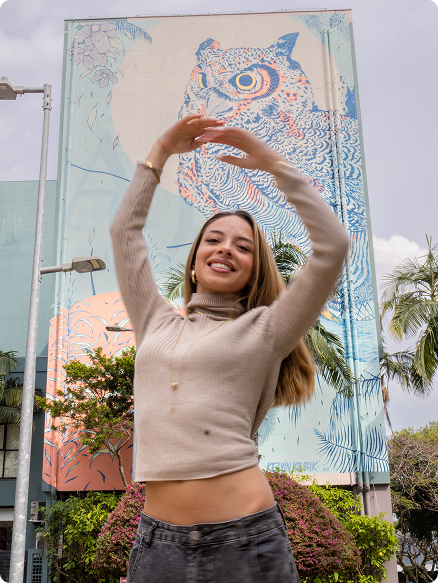
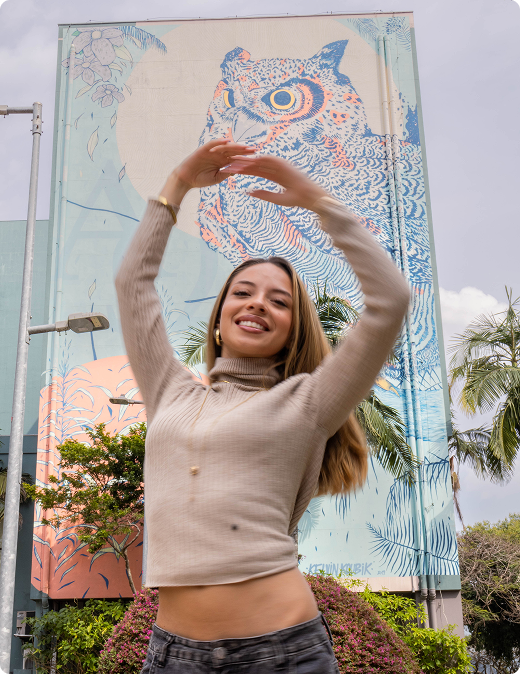
changed images and fixed about

diff --git a/src/App.jsx b/src/App.jsx
@@ -7,18 +7,24 @@ function App() {
     <>
       <Header />
       <main className='container'>
-        <img src="./gabrielle.png" alt="" />
         <div className='about-me'>
-          <h1>SOBRE MIM</h1>
-          <p>Sou fotógrafa de Esteio, no Rio Grande do Sul. Trabalho com fotografia de eventos, ensaios e retratos, sempre buscando registrar momentos com leveza, afeto e autenticidade. Acredito que cada imagem carrega uma história e o meu olhar é voltado para transformar essas histórias em memórias cheias de significado :)</p>
+          <img src="./gabrielle.png" alt="" />
+          <div>
+            <h1>SOBRE MIM</h1>
+            <p>Sou fotógrafa de Esteio, no Rio Grande do Sul. Trabalho com fotografia de eventos, ensaios e retratos, sempre buscando registrar momentos com leveza, afeto e autenticidade. Acredito que cada imagem carrega uma história e o meu olhar é voltado para transformar essas histórias em memórias cheias de significado :)</p>
+          </div>
         </div>
       </main>
 
       <section className='hero-section'>
         <div className='images'>
-          <img src="./foto-4.png" alt="" />
+          <img src="./fotoElton.png" alt="" />
+          <img src="./Frame-1.png" alt="" />
+          <img src="./Foto-2.png" alt="" />
         </div>
       </section>
+
+      <section></section>
     </>
   )
 }

diff --git a/src/App.css b/src/App.css
@@ -5,24 +5,23 @@
 .container {
   max-width: 1300px;
   margin: 0 auto;
-  margin-top: 10rem;
-  color: #fff;
+  height: 90dvh;
   display: flex;
   justify-content: center;
-  align-items: center;
-  gap: 50px;
-
-  img {
-    /* display: block; */
-    /* max-width: 100%; */
-  }
+  color: #fff;
+  /* border: 1px solid red; */
 
   .about-me {
     display: flex;
-    flex-direction: column;
+    align-items: center;
     gap: 20px;
     animation: animaLeft 0.5s ease-in-out;
     /* opacity: 0; */
+
+    img {
+      display: block;
+      width: 100%;
+    }
 
     h1 {
       font-size: 3rem;
@@ -47,22 +46,17 @@
 }
 
 .hero-section {
-  max-width: 1300px;
+  max-width: 1600px;
   margin: 0 auto;
-  display: flex;
-  justify-content: center;
-  align-items: center;
-  margin-bottom: 4rem;
-  margin-top: 10rem;
 
-  .images {
-    /* display: flex; */
-    /* gap: 20px; */
-    /* max-width: 100%; */
+  div.images {
+    display: grid;
+    grid-template-columns: repeat(3, 1fr);
+    gap: 20px;
 
     img {
       display: block;
-      /* max-width: 350px; */
+      /* max-width: 100%; */
     }
   }
 }

diff --git a/src/components/Header.css b/src/components/Header.css
@@ -10,6 +10,7 @@
   h1 {
     justify-self: center;
     font-size: 2.5rem;
+    font-weight: 400;
   }
 
   button {
@@ -24,6 +25,10 @@
     font-weight: 500;
     gap: 10px;
     cursor: pointer;
+
+    &:hover {
+      background: #525252;
+    }
 
     img {
       display: block;
